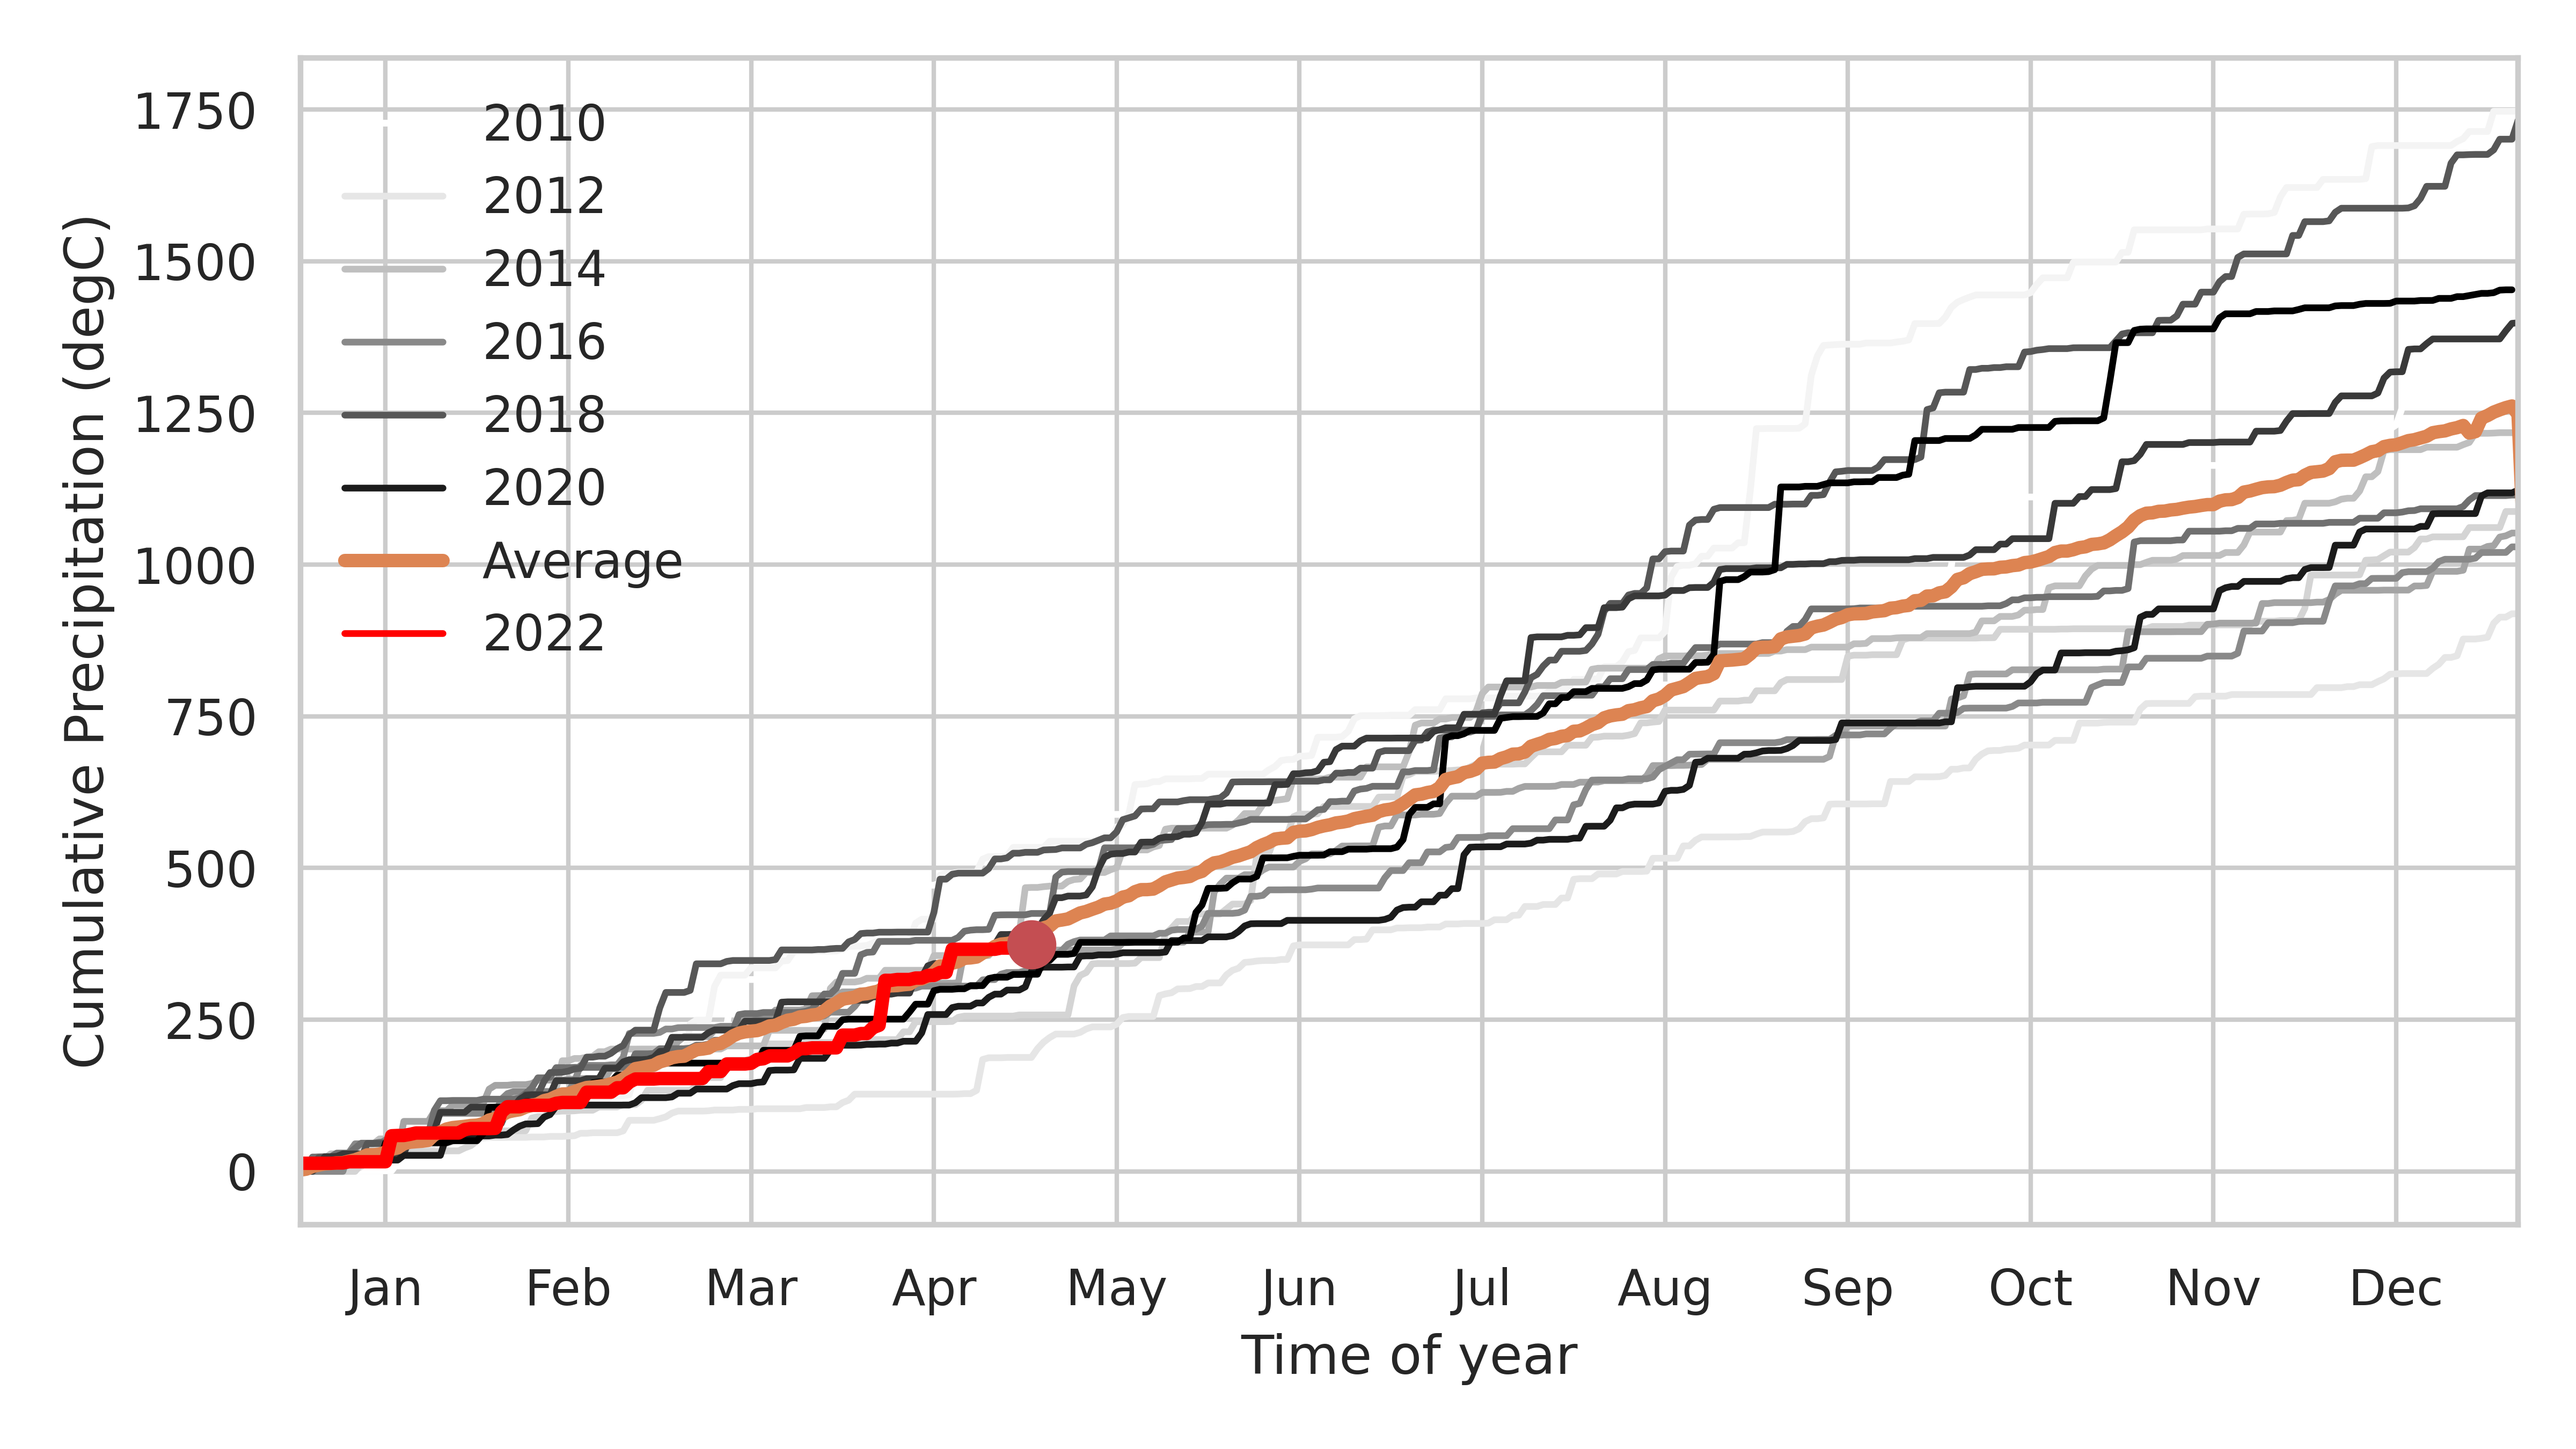
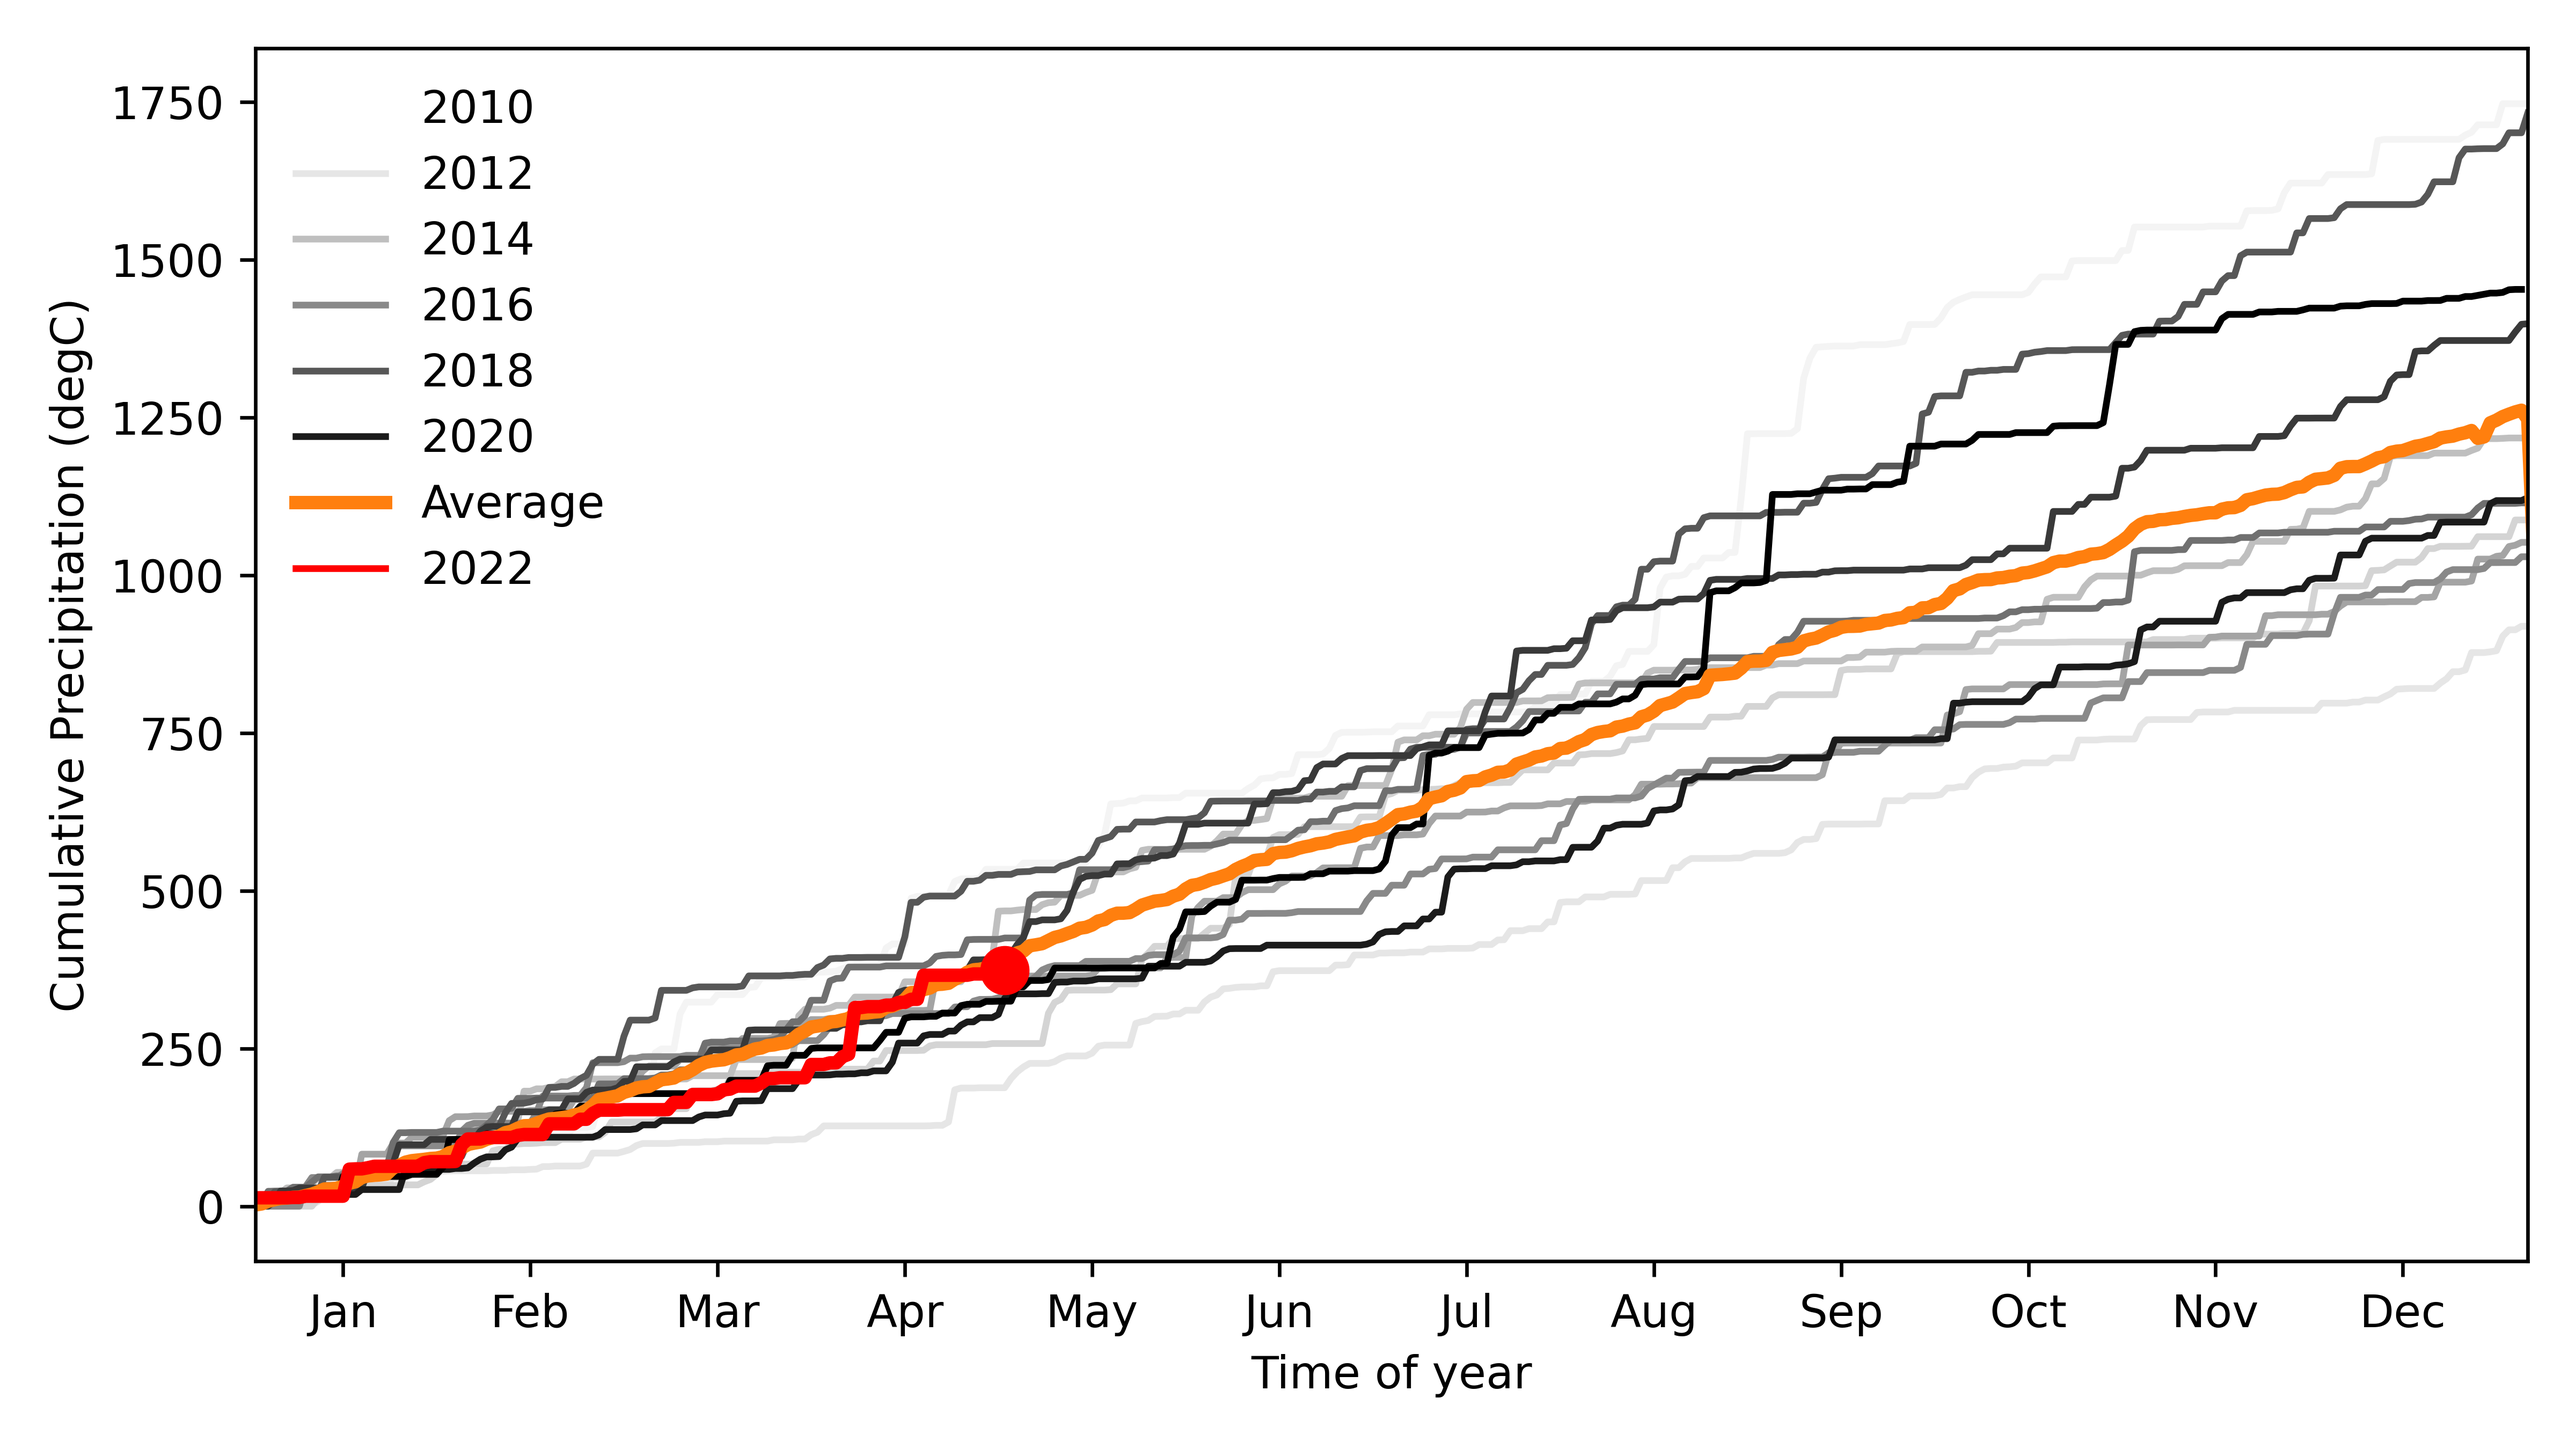
daily blog update

diff --git a/_posts/2022-05-03-blog024.md b/_posts/2022-05-03-blog024.md
@@ -1,0 +1,42 @@
+---
+title: "May 03, 2022"
+excerpt: "HAB update"
+image: /assets/images/oradell.jpg
+tags: 
+  - hab
+  - prediction
+---
+## 7-day Look Ahead Bloom Forecast
+Below are pie charts describing the __probability of a cyanobacterial bloom__. The one on the left describes the predictions from two weeks ago, and the one on the right describes the latest prediction, for the coming week. 
+![image-center]({{ site.url }}{{ site.baseurl }}/assets/images/20220503/Fig_prediction.png)
+__Probability of occurrence (%) of an algal bloom from two weeks ago (left) and for the next 7 days (right).__
+
+## Hotspot Analysis - Chlorophyll-a
+This map shows you the latest estimates of __chlorophyll-a__ from the Sentinel 2a satellite. Note that the color scale is normalized to highlight the hotspots in the image relative to yearly maxima and minima. The colorscale does not provide an indication of the absolute amount of chlorophyll-a in the water and should be interpreted as an "index" of chlorophyll-a.
+![image-center]({{ site.url }}{{ site.baseurl }}/assets/images/20220503/Fig_chla_week.png){:             width="600px"}{: .align-center}
+<br clear="all" />
+__Latest chlorophyll-a map from the Sentinel 2a satelllite.__
+
+## Hotspot Analysis - CyAN
+This map shows you the latest estimates of the concentration of cyanobacteria (cells/ml) from the EPA CyAN program.
+![image-center]({{ site.url }}{{ site.baseurl }}/assets/images/20220503/Fig_cyan.png){: width="600px"}{: .align-center}
+<br clear="all" />
+__Latest CyAN map from the EPA.__
+
+
+## Where we are in the season
+This plot shows the __historical expectation for HAB risk__ over the year. Use this chart to see where we are in the season (identified by the vertical red line). 
+![image-center]({{ site.url }}{{ site.baseurl }}/assets/images/20220503/Fig_climatology.png){: .     align-center}
+__Harmful algal bloom risk over the year__.
+
+## How rainy has it been? 
+We know that in general certain weather conditions promote the likelihood of HABs. Check this chart to see 
+how __wet__ it is, relative to past years. This is simply adding up each day's rainfall, for each year. If the red line is below the orange line, then this year is dryer than average.
+![image-center]({{ site.url }}{{ site.baseurl }}/assets/images/20220503/Fig_precip_cumsum.png){: .     align-center}
+__Precipitation at the lake compared to previous years__.
+
+## How hot has it been? 
+We know that in general certain weather conditions promote the likelihood of HABs. Check this chart to see 
+how __hot__ it is, relative to past years. This is simply adding up each day's temperature, for each year. If the red line is above the orange line, this year is hotter than average.
+![image-center]({{ site.url }}{{ site.baseurl }}/assets/images/20220503/Fig_temp_cumsum.png){: .     align-center}
+__Air temperature at the lake compared to previous years__.
